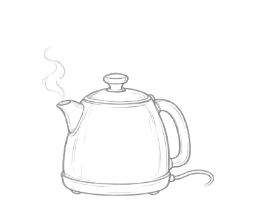
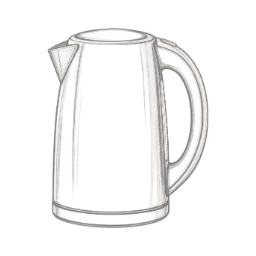
Refine the tea-room kettle and clarify yoghurt preparations

Changed region(s): [[0.1562, 0.0938, 0.8438, 0.9062], [0.1562, 0.3438, 0.1875, 0.4062], [0.5625, 0.625, 0.5938, 0.6562]]

diff --git a/stories/cookbook/cookbook.md b/stories/cookbook/cookbook.md
@@ -59,7 +59,7 @@ Juice, porridge, bread.
 **Goals**
 - Churn butter. -- Butter
 - next: Whip cream. -- Whipped cream
-- Prepare fruit yogurt. -- Fruit yogurt
+- Prepare fruit yoghurt. -- Fruit yoghurt
 
 **Hotspots**
 - Warm shelf (at 27%, 17.654028%)
@@ -71,13 +71,13 @@ Juice, porridge, bread.
 **Items**
 - Milk
   - icon: ![Milk](assets/cooks-pen/items/milk.png)
-- Yogurt starter
-  - icon: ![Yogurt starter](assets/cooks-pen/items/yogurt-starter.png)
+- Yoghurt starter
+  - icon: ![Yoghurt starter](assets/cooks-pen/items/yogurt-starter.png)
 - Cream
   - icon: ![Cream](assets/cooks-pen/items/cream.png)
 - Apples
-- Fruit yogurt
-  - icon: ![Fruit yogurt](assets/cooks-pen/items/fruit-yogurt.png)
+- Fruit yoghurt
+  - icon: ![Fruit yoghurt](assets/cooks-pen/items/fruit-yogurt.png)
 
 - Whisk
   - icon: ![Whisk](assets/cooks-pen/items/whisk.png)
@@ -85,10 +85,10 @@ Juice, porridge, bread.
   - icon: ![Whipped cream](assets/cooks-pen/items/whipped-cream.png)
 
 **Combinations**
-- Milk + Yogurt starter [preserve] @ Warm shelf -> Yogurt
+- Milk + Yoghurt starter [preserve] @ Warm shelf -> Unstrained yoghurt
 - Cream @ Butter churn -> Butter
 - Cream + Whisk -> Whipped cream
-- Yogurt + Apples -> Fruit yogurt
+- Unstrained yoghurt + Apples -> Fruit yoghurt
 
 > NOTE: [OpenStax: What Our Ancestors Knew](https://openstax.org/books/microbiology/pages/1-1-what-our-ancestors-knew). Fermentation history; not exact recipe ratios or a universal chronology.
 
@@ -138,39 +138,39 @@ What could be nicer than freshly baked bread with butter?
 - Cucumber [preserve] + Chef’s knife [preserve] -> Sliced cucumber
 - Bread and butter [transform] + Sliced cucumber [consume] -> Cucumber finger sandwiches
 
-## Strained yogurt
-![Yogurt, thick and fresh](assets/cooks-pen/backgrounds/cucumber-dill-and-yogurt.webp)
+## Yoghurt
+![Yoghurt, thick and fresh](assets/cooks-pen/backgrounds/cucumber-dill-and-yogurt.webp)
 
-*Strained yoghurt*
+*Yoghurt*
 
 **Goals**
-- Serve flatbread with herbed yogurt. -- Flatbread with herbed yogurt
-- Prepare cucumber yogurt. -- Cucumber yogurt
+- Serve flatbread with herbed yoghurt. -- Flatbread with herbed yoghurt
+- Prepare cucumber yoghurt. -- Cucumber yoghurt
 
 **Items**
-- Strained yogurt
-  - icon: ![Strained yogurt](assets/cooks-pen/items/strained-yogurt.png)
+- Yoghurt
+  - icon: ![Yoghurt](assets/cooks-pen/items/strained-yogurt.png)
 - Straining cloth
   - icon: ![Straining cloth](assets/cooks-pen/items/straining-cloth.png)
 - Herbs
   - icon: ![Herbs](assets/cooks-pen/items/herbs.png)
-- Cucumber
-- Yogurt
-  - icon: ![Yogurt](assets/cooks-pen/items/yogurt.png)
+- Sliced cucumber
+- Unstrained yoghurt
+  - icon: ![Unstrained yoghurt](assets/cooks-pen/items/yogurt.png)
 - Flatbread
   - icon: ![Flatbread](assets/cooks-pen/items/flatbread.png)
-- Herbed strained yogurt
-  - icon: ![Herbed strained yogurt](assets/cooks-pen/items/herbed-strained-yogurt.png)
-- Flatbread with herbed yogurt
-  - icon: ![Flatbread with herbed yogurt](assets/cooks-pen/items/flatbread-with-herbed-yogurt.png)
-- Cucumber yogurt
-  - icon: ![Cucumber yogurt](assets/cooks-pen/items/cucumber-yogurt.png)
+- Herbed yoghurt
+  - icon: ![Herbed yoghurt](assets/cooks-pen/items/herbed-strained-yogurt.png)
+- Flatbread with herbed yoghurt
+  - icon: ![Flatbread with herbed yoghurt](assets/cooks-pen/items/flatbread-with-herbed-yogurt.png)
+- Cucumber yoghurt
+  - icon: ![Cucumber yoghurt](assets/cooks-pen/items/cucumber-yogurt.png)
 
 **Combinations**
-- Yogurt + Straining cloth [preserve] -> Strained yogurt
-- Strained yogurt [transform] + Herbs -> Herbed strained yogurt
-- Flatbread + Herbed strained yogurt [transform] -> Flatbread with herbed yogurt
-- Yogurt + Cucumber [preserve] -> Cucumber yogurt
+- Unstrained yoghurt + Straining cloth [preserve] -> Yoghurt
+- Yoghurt [transform] + Herbs -> Herbed yoghurt
+- Flatbread + Herbed yoghurt [transform] -> Flatbread with herbed yoghurt
+- Yoghurt + Sliced cucumber [preserve] -> Cucumber yoghurt
 
 ## Vinegar and salad dressing
 ![A little sharpness](assets/cooks-pen/backgrounds/apples-into-sharpness.webp)
@@ -215,7 +215,7 @@ Acidity balances richness.
 
 **Goals**
 - Grill herb toast. -- Herb toast
-- Serve compote yogurt. -- Compote yogurt
+- Serve compote yoghurt. -- Compote yoghurt
 
 **Hotspots**
 - Grill (at 26.923077%, 20.912322%)
@@ -233,18 +233,18 @@ Acidity balances richness.
   - icon: ![Bread](assets/cooks-pen/items/bread.png)
 - Apples
 - Apple juice
-- Yogurt
+- Unstrained yoghurt
 - Herb-buttered bread
   - icon: ![Herb-buttered bread](assets/cooks-pen/items/herb-buttered-bread.png)
-- Compote yogurt
-  - icon: ![Compote yogurt](assets/cooks-pen/items/compote-yogurt.png)
+- Compote yoghurt
+  - icon: ![Compote yoghurt](assets/cooks-pen/items/compote-yogurt.png)
 
 **Combinations**
 - Butter + Herbs -> Herb butter
 - Bread + Herb butter [consume] -> Herb-buttered bread
 - Herb-buttered bread [transform] @ Grill -> Herb toast
 - Apples + Apple juice @ `orchard-stove-orchard-lunch` -> Apple compote
-- Yogurt + Apple compote -> Compote yogurt
+- Unstrained yoghurt + Apple compote -> Compote yoghurt
 
 ## Vegetable broth and onion soup
 ![A pot of broth](assets/cooks-pen/backgrounds/onions-and-a-bowl-of-broth.webp)
@@ -522,7 +522,7 @@ Add variety through texture
 - Brew a cup of tea. -- Cup of tea
 
 **Hotspots**
-- `afternoon-tea-kettle` Kettle (at 50%, 22%)
+- `afternoon-tea-kettle` Kettle (at 50%, 21.52606635%)
   - icon: ![Kettle](assets/rework/stations/kettle.png)
 
 **Items**
@@ -1283,7 +1283,7 @@ A pouring sauce and a pastry filling.
 - Self-raising flour
   - icon: ![Self-raising flour](assets/rework/items/self-raising-flour.png)
 - Apples
-- Yogurt
+- Unstrained yoghurt
 - Flour
 - Beaten egg-and-milk mixture
   - icon: ![Beaten egg-and-milk mixture](assets/cooks-pen/items/beaten-egg-and-milk-mixture.png)
@@ -1295,8 +1295,8 @@ A pouring sauce and a pastry filling.
   - icon: ![Fruit muffin batter](assets/cooks-pen/items/fruit-muffin-batter.png)
 - Fruit muffins
   - icon: ![Fruit muffins](assets/cooks-pen/items/fruit-muffins.png)
-- Yogurt and soda mixture
-  - icon: ![Yogurt and soda mixture](assets/cooks-pen/items/yogurt-and-soda-mixture.png)
+- Yoghurt and soda mixture
+  - icon: ![Yoghurt and soda mixture](assets/cooks-pen/items/yogurt-and-soda-mixture.png)
 - Soda bread dough
   - icon: ![Soda bread dough](assets/cooks-pen/items/soda-bread-dough.png)
 
@@ -1306,8 +1306,8 @@ A pouring sauce and a pastry filling.
 - Buttery muffin mixture [transform] + Self-raising flour -> Muffin batter
 - Muffin batter [transform] + Apples -> Fruit muffin batter
 - Fruit muffin batter [transform] @ `tea-oven-crew-baking` -> Fruit muffins
-- Yogurt + Baking soda [preserve] -> Yogurt and soda mixture
-- Yogurt and soda mixture [transform] + Flour -> Soda bread dough
+- Unstrained yoghurt + Baking soda [preserve] -> Yoghurt and soda mixture
+- Yoghurt and soda mixture [transform] + Flour -> Soda bread dough
 - Soda bread dough [transform] @ `tea-oven-crew-baking` -> Soda bread
 
 ## Ice cream and sorbet

diff --git a/stories/cookbook/design-brief.md b/stories/cookbook/design-brief.md
@@ -16,6 +16,8 @@ Breakfast, afternoon tea and dinner are distinct serving beats. Tea comes about 
 
 Keep plain porridge and fruit yoghurt in the opening. Reuse ingredients and preparations meaningfully. Brown butter is welcome; repeated herbed-butter embellishments are not a substitute for good fundamentals. Mushroom filling connects ravioli with Beef Wellington. Preserve excess beans earlier without immediately reopening the can; reopen the earlier fruit preserve later with a tool suited to its jar.
 
+Name the fermented milk “Unstrained yoghurt” and the result of using the straining cloth “Yoghurt.” Cucumber yoghurt uses that finished yoghurt and the sliced cucumber prepared earlier for sandwiches. Keep the existing illustrations for these preparations.
+
 Use a chef’s knife consistently. Name hob and oven uses clearly. Heat matters where its omission would confuse the preparation, especially milk added to hot roux; do not add a heating gesture to every warm dish. Keep successive sauce states in the saucepan. Toss ravioli with herb brown butter in the frying pan. Assemble the meringue-coated Unbaked Alaska before baking it. Finish and ice the ganache-filled chocolate cake in its preparation chapter, not at dinner. Call the sugar-and-water mixture “Icing.”
 
 ## Serving occasions
@@ -40,6 +42,6 @@ Keep a physically informed size hierarchy. At the 390×844 reference viewport, s
 
 Each cooking chapter has a faint background associated with its culinary subject. Loose thematic border art runs along the top; a shallow, connected culinary spread occupies the bottom, leaving a broad quiet working field. Avoid isolated decorative objects that resemble draggable ingredients. Use shared dishes, utensils, overlapping forms and food traces. Let substantial foreground forms continue beyond the bottom edge rather than leaving a blank strip below a complete still life. Keep the sides open and allow cropping. Vary pale work surfaces, including cool marble for pastry; use tablecloths sparingly.
 
-Afternoon tea and Dinner are places rather than cookbook pages: a home parlour and a home dining room. Furnish the full scene while retaining quiet working surfaces. The tea stand starts safely on its painted table, with room around its feet. The kettle rests on the sideboard at the room’s scale. The dining table is the movable compound, so the background leaves its floor space open. Use exposed wooden flooring beneath the dining table. Keep the floor continuous with the surrounding room and preserve its perspective. These places should feel hospitable and provide a reward for the cooking.
+Afternoon tea and Dinner are places rather than cookbook pages: a home parlour and a home dining room. Furnish the full scene while retaining quiet working surfaces. The tea stand starts safely on its painted table, with room around its feet. Use an upright jug-style kettle, with its base resting on the sideboard and its lid just below the botanical picture. The dining table is the movable compound, so the background leaves its floor space open. Use exposed wooden flooring beneath the dining table. Keep the floor continuous with the surrounding room and preserve its perspective. These places should feel hospitable and provide a reward for the cooking.
 
 Fixed cooking stations use spare monochrome pencil drawings, distinct from the coloured movable food. Keep each chapter to at most two hotspots. The fruit press and churns are fixed apparatus; breakfast uses a simple cookstove. Centre a single station above the working area and separate pairs. Where one stove drawing represents hob and oven, saucepan work belongs toward the top and baking toward the lower part. Do not print station names into the painting; normal game feedback supplies them. Give receiving targets comfortable room around the equipment and register room furniture to the actual supporting surface.

diff --git a/projects/cookbook-study/outcomes.md b/projects/cookbook-study/outcomes.md
@@ -2,6 +2,14 @@
 
 These summaries record the development decisions of 1 November 2026. Run inputs and outputs have been discarded. They are not replayable evidence or automatic validation of later changes; use the [instructions](verification.md) for new work.
 
+## Upright kettle and yoghurt names
+
+The kettle now follows the user’s upright electric-jug reference in the existing pencil treatment. Its solid body is 50px tall, about 1.6× the previous body excluding steam. The expanded receiving target moves upward while the painted base stays at y=206.68px on the sideboard; the lid clears the botanical picture. Direct inspection covered desktop and short-phone scenes. The exact generation request, selected source and measured export remain in the [art collection](rework-art/README.md).
+
+Milk and starter now produce Unstrained yoghurt; the cloth produces Yoghurt. Related labels use the same spelling, and the chapter is simply Yoghurt. The existing illustrations are unchanged. At the user’s subsequent request, Cucumber yoghurt combines finished Yoghurt with Sliced cucumber from the earlier sandwich preparation. The yoghurt page lists the slices rather than supplying a redundant whole cucumber. A semantic comparison confirmed that this is the only recipe-input change apart from renaming; all 207 recipes, goal structures and existing item-art paths remain accounted for.
+
+Twelve story tests, including legal completion routes, and the production build passed; the build retains author-review and bundle-size warnings. Browser checks covered Dairy, bread, yoghurt and tea arrivals across three layouts, plus fifteen ordinary mouse/emulated-touch cases for those preparations, scones/biscuits and tea brewing/assembly, with reload and advancement. After removing the redundant whole-cucumber supply, bread/yoghurt interactions were rechecked in six cases and yoghurt arrivals in three. The taller kettle remained supported by the sideboard, and the sliced ingredient carried forward correctly. These are informed visual and mechanical checks, not human recognition or native-device evidence. Concurrent viewport implementation work was not part of this story/art change.
+
 ## Rounded bread and distinct powders
 
 Bread and butter now has a thick spread across both slices. The cucumber sandwiches use the existing rustic loaf’s rounded, crust-on slices, without a plate. The standalone icon and bottom-left tea fitting reuse the same selected painting at independent scales. A separately generated fitted variant squared the bread and was rejected; reusing the rounded source preserves its shape. The [powder study](powder-icons/README.md) retains the requested eight variants and selected comparisons: plain flour sack, self-raising-flour sack with scoop and blue stripe, glass sugar bowl, and confectioner’s-sugar bowl with sieve. None of the selected icons carries lettering.

diff --git a/notes.md b/notes.md
@@ -807,3 +807,9 @@ The user rejected the carpet perspective after the latest widening and asked to 
 The user requested generous butter, cucumber sandwiches made from the existing rustic loaf, no sandwich plate, and rounded bread in the tea fitting as well as the standalone icon. The current exports use those features; both sandwich roles reuse the same selected painting. The requested flour/sugar contact sheet led to plain flour in a sack, self-raising flour with a scoop and blue band, sugar in a glass bowl, and confectioner’s sugar with a sieve, without lettering. Exact built-in generation requests, selected sources and comparison deliverables remain in the [Cookbook study](projects/cookbook-study/README.md). The story’s [design brief](stories/cookbook/design-brief.md) owns the lasting direction.
 
 All 33 standalone size/hash checks, 114 arrivals and the final nine focused mouse/emulated-touch interaction cases passed; production build passed with existing warnings. One initial 4px kettle-target overlap did not recur, and remains an unverified intermittent finding rather than a claimed fix. [Outcomes](projects/cookbook-study/outcomes.md#rounded-bread-and-distinct-powders) record the checks and their limits. Recipes and prose are unchanged. This work uses the user’s standing commit-and-push authorization; the concurrent editor-control commit remains intact.
+
+## 1 November 2026 — Upright kettle and clearer yoghurt preparations
+
+The user requested a taller electric-jug kettle, with its lid just under the picture and its base still on the parlour sideboard. The generated replacement is 50px tall at reference size, about 1.6× the former solid body; its baseline is numerically unchanged. The [station source and request](projects/cookbook-study/rework-art/production/station-generation.json) record the photograph supplied in conversation and the existing style/room inputs.
+
+The user also reported confusion between yoghurt stages. Their existing illustrations now carry the names Unstrained yoghurt and Yoghurt, before and after the cloth. Cucumber yoghurt uses the earlier sliced cucumber and the finished yoghurt, as subsequently requested. The rest of the recipe graph is unchanged under label renaming. [Study outcomes](projects/cookbook-study/outcomes.md#upright-kettle-and-yoghurt-names) record passing story/build checks and focused desktop/phone interactions, including the final removal of the redundant whole-cucumber supply. Concurrent viewport implementation edits were left out of this change. The standing commit-and-push authorization continues to apply.

diff --git a/projects/cookbook-study/verification.md b/projects/cookbook-study/verification.md
@@ -20,6 +20,8 @@ The first checker uses legal chapter checkpoints to inspect all current chapter 
 
 Check ordinary entry as well as developer checkpoints. Inspect the proofing shelf's padding, centered single stations, separation of pairs and deliberate placement/reload behavior. Keep ingredient size relationships intact. Use the [rework export instructions](rework-art/README.md) for finished assets; never run original-art exports as part of an unrelated story edit.
 
+For yoghurt, verify Milk + Yoghurt starter at the Warm shelf produces Unstrained yoghurt; the cloth then produces Yoghurt. Cucumber yoghurt uses the finished yoghurt and Sliced cucumber. Check that the earlier sandwich preparation retains the slices needed for this later goal, and that the other yoghurt recipes still have legal continuations. The names changed; their existing illustrations remain in use.
+
 For afternoon tea, exercise the early preparation goals in Dairy and Home-made bread: whipped cream and cucumber finger sandwiches must be complete before tea. Verify all six fittings—sandwiches, scones, biscuits, jam roll, cream and jam—and confirm that serving cream, jam roll and jam preserves their later uses. The cream pot belongs behind the spoon-free jam jar, together with one whole scone on the middle tier. Biscuits occupy the top tier; the generously sized roll and three plate-free sandwiches occupy the bottom tier. Compare the fitted layers with the accepted whole-stand composition, allowing for the later rustic-bread revision: sandwiches must retain the loaf’s rounded crust and crumb in both standalone and fitted artwork. Check the stand at its authored 50%, 44% starting centre on the painted tea table, on short phones as well as desktop. Judge the fixed kettle against the sideboard and room, using its [station registration](rework-art/production/stations-and-pages.json), not the standalone ingredient scale; its independent receiving target must remain comfortable to touch. Brew a cup before and after filling the stand, keeping the cup separate and requiring no serving-location placement.
 
 Inspect the four [powder icons](powder-icons/README.md) together at game size. Check that the scoop and blue band separate self-raising flour from plain flour, while the sugar bowl and confectioner’s-sugar sieve remain legible without lettering. Check atlas crops for adjacent-object fragments and clipping. Recheck arrivals when changed containers or food groups alter the item dimensions.

diff --git a/projects/cookbook-study/rework-art/README.md b/projects/cookbook-study/rework-art/README.md
@@ -56,7 +56,7 @@ The table extraction was superseded after an informed geometry review found that
 
 These commands deliberately replace the corresponding runtime exports. The two standalone exporters share [framing code](tools/item-framing.mjs) and the [size catalogue](item-sizes.json). Proofs go to ignored `runs/cookbook-art/`. Run `node projects/cookbook-study/rework-art/tools/review-art.mjs` for an unnamed sheet at current display sizes and its separate answer key; it reads the current catalogue and manifests. All fitted layers share their owner’s canvas dimensions.
 
-Current serving geometry belongs in [registration](serving-registration.json). At the reference viewport, the tea stand is 220×240px and starts at 50%, 44%. Its kettle drawing is 38px high within a 64×56px receiving target at 50%, 22%, with its base resting on the sideboard. The dining table is 300×290px and starts at 57.6%, 41.7%, aligning its constructed perspective with the room. Intrinsic compound canvases are four times these display dimensions.
+Current serving geometry belongs in [registration](serving-registration.json), and the kettle has its own [station registration](production/stations-and-pages.json). At the reference viewport, the tea stand is 220×240px and starts at 50%, 44%. The upright kettle drawing is 50px high within a 64×64px receiving target at 50%, 21.52606635%. Its body is about 1.6× the former solid body height, excluding the old steam. The painted base remains at scene y=206.68px on the sideboard, and the lid at y=156.68px sits just below the picture. The dining table is 300×290px and starts at 57.6%, 41.7%, aligning its constructed perspective with the room. Intrinsic compound and station canvases are four times these display dimensions.
 
 ## Recognition decisions
 
